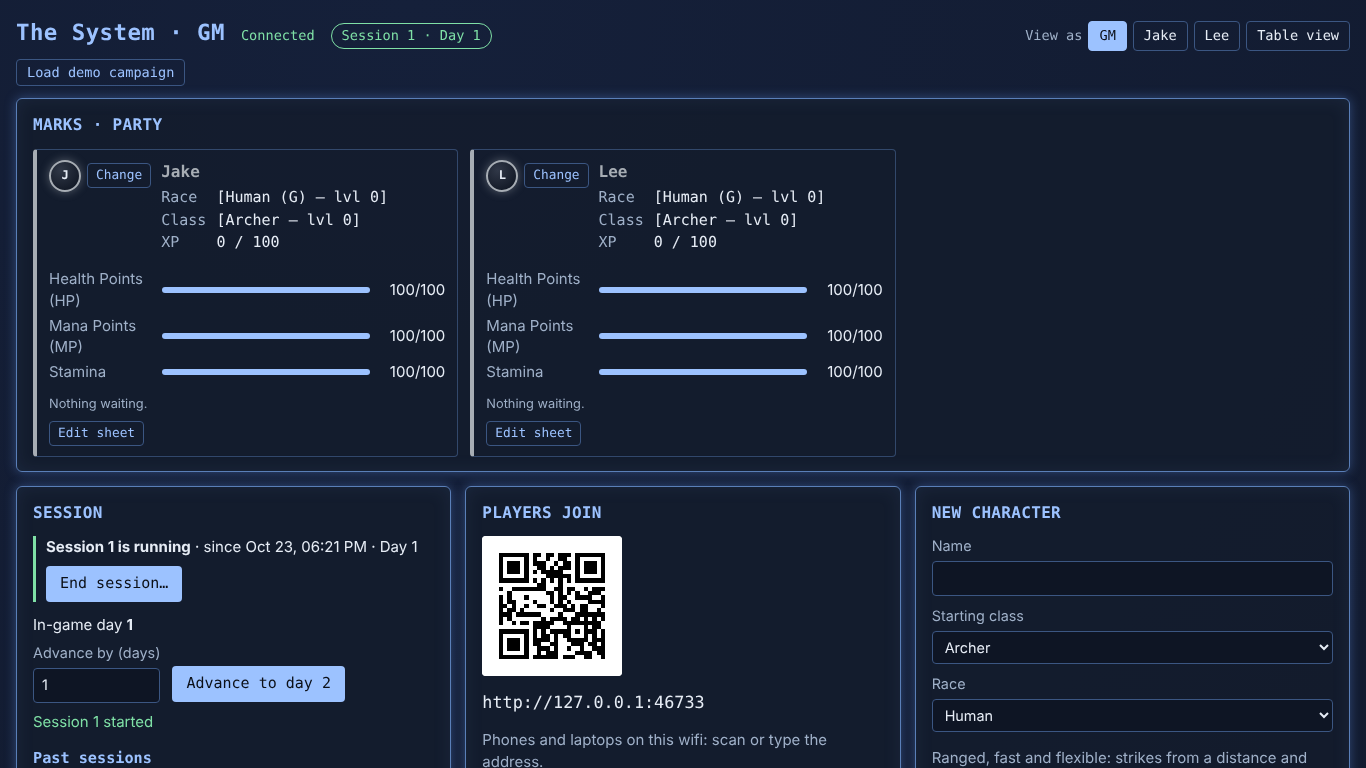
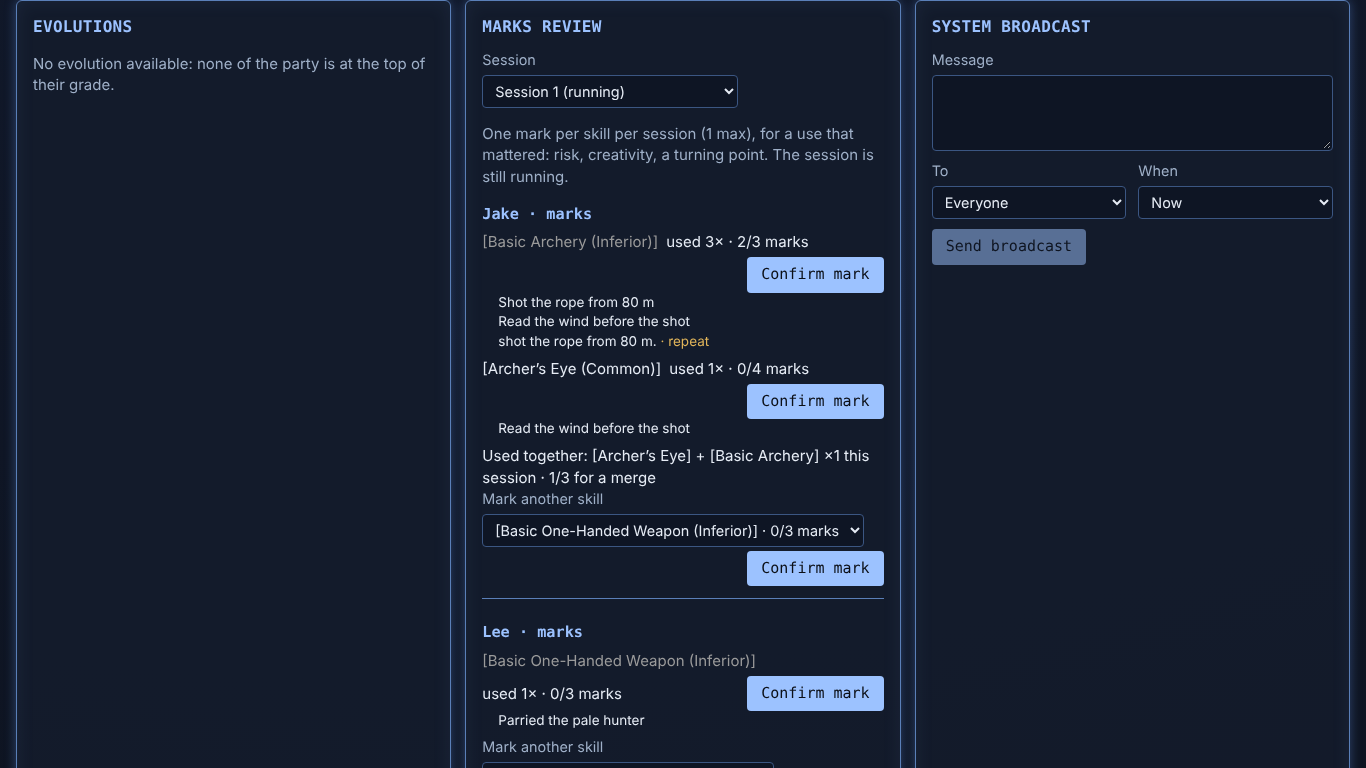
fix(M5.3): review round 1: skill pairs counted, montage focus flagged, lost skills named, screenshot shows the review
Claude-Session: https://claude.ai/code/session_01DXj8RTQfhi1GQVeTQ6zDGn

diff --git a/packages/engine/src/skills/review.ts b/packages/engine/src/skills/review.ts
@@ -1,5 +1,5 @@
 import type { CampaignState } from '../events/reducer';
-import { repeatedEntryIds, type PracticeSource } from '../practice/model';
+import { repeatedEntryIds, skillPairCounts, type PracticeSource } from '../practice/model';
 import { atCeiling, canUpgrade, marksToUpgrade } from './model';
 
 /**
@@ -38,6 +38,19 @@ export interface MarkCandidate {
   readonly status: MarkStatus;
   /** At the grade's rarity ceiling: a mark banks until the next evolution. */
   readonly banks: boolean;
+  /** A montage focus used it this session: the focus counts as its mark (DESIGN §6). */
+  readonly montage: boolean;
+}
+
+/** Two skills logged working together this session (DESIGN §7 "skill pairs counted"). */
+export interface ReviewPair {
+  readonly skills: readonly [string, string];
+  /** Joint uses this session (repeats not counted). */
+  readonly session: number;
+  /** Joint uses in the whole log, which the merge alert counts. */
+  readonly total: number;
+  /** Joint uses a merge needs (rules). */
+  readonly needed: number;
 }
 
 /** A skill with the marks for its next rarity that the grade allows now. */
@@ -60,6 +73,9 @@ export interface CharacterMarksReview {
   readonly upgrades: readonly UpgradePrompt[];
   /** Skills holding enough marks but at the grade ceiling (they bank). */
   readonly banked: readonly MarkCandidate[];
+  readonly pairs: readonly ReviewPair[];
+  /** Skill names logged this session that the character no longer has (merged, transformed). */
+  readonly lost: readonly string[];
 }
 
 /**
@@ -98,6 +114,7 @@ export function marksReview(state: CampaignState, sessionId: string): CharacterM
         needed,
         status,
         banks: needed !== null && atCeiling(rules, character, skill),
+        montage: entries.some((e) => e.source === 'montage'),
       };
       return { candidate, order };
     });
@@ -119,7 +136,20 @@ export function marksReview(state: CampaignState, sessionId: string): CharacterM
     const banked = candidates
       .map((c) => c.candidate)
       .filter((c) => c.banks && c.needed !== null && c.marks >= c.needed);
-    return [{ characterId: id, name: character.name, used, unused, upgrades, banked }];
+    const owned = new Set(character.skills.map((k) => k.name));
+    const lost = [...new Set(mine.flatMap((e) => e.skills))].filter((n) => !owned.has(n));
+    const totals = skillPairCounts(state.practice, id);
+    const pairs = skillPairCounts(session, id)
+      .filter((p) => owned.has(p.skills[0]) && owned.has(p.skills[1]))
+      .map((p) => ({
+        skills: p.skills,
+        session: p.count,
+        total:
+          totals.find((t) => t.skills[0] === p.skills[0] && t.skills[1] === p.skills[1])?.count ??
+          p.count,
+        needed: rules.skills.merge.requiredJointUses,
+      }));
+    return [{ characterId: id, name: character.name, used, unused, upgrades, banked, pairs, lost }];
   });
 }
 

diff --git a/packages/engine/test/marksReview.test.ts b/packages/engine/test/marksReview.test.ts
@@ -149,4 +149,61 @@ describe('marksReview (M5.3)', () => {
   it('no session played means no session to review', () => {
     expect(reviewSessionId(run(start).state!)).toBeNull();
   });
+  it('counts skill pairs this session and in the whole log, and flags a montage focus', () => {
+    const c = run([
+      ...start,
+      { type: 'session.start', sessionId: 'p0' },
+      log('Aimed and shot', ['Archer’s Eye', 'Basic Archery']),
+      { type: 'session.end' },
+      { type: 'session.start', sessionId: 'p1' },
+      log('Aimed and shot again', ['Basic Archery', 'Archer’s Eye']),
+      { type: 'clock.create', clockId: 'k', name: 'Climb', segments: 2 },
+      { type: 'clock.tick', clockId: 'k', result: 'success' },
+      { type: 'montage.offer', montageId: 'm', clockId: 'k', characterIds: [ID] },
+      {
+        type: 'montage.focus',
+        montageId: 'm',
+        characterId: ID,
+        action: 'Hid',
+        skills: ['Basic Stealth'],
+      },
+    ]);
+    const jake = jakeOf(c, 'p1');
+    expect(jake.pairs).toEqual([
+      { skills: ['Archer’s Eye', 'Basic Archery'], session: 1, total: 2, needed: 3 },
+    ]);
+    expect(jake.used.find((u) => u.skill === 'Basic Stealth')).toMatchObject({
+      montage: true,
+      status: 'eligible',
+    });
+    expect(jake.used.find((u) => u.skill === 'Basic Archery')!.montage).toBe(false);
+    expect(jake.lost).toEqual([]);
+  });
+
+  it('lists logged skills merged away this session as lost', () => {
+    const pair = ['Cut', 'Step'];
+    const c = run([
+      { type: 'campaign.create', name: 'Whale', rules: rawRules() },
+      {
+        type: 'character.create',
+        id: ID,
+        name: 'Jake',
+        className: 'Archer',
+        classSkills: [
+          { name: 'Cut', rarity: 'uncommon' },
+          { name: 'Step', rarity: 'uncommon' },
+          { name: 'Look', rarity: 'common' },
+        ],
+      },
+      { type: 'session.start', sessionId: 'p1' },
+      log('One', pair),
+      log('Two', pair),
+      log('Three', pair),
+      { type: 'skill.merge', characterId: ID, skills: ['Cut', 'Step'], name: 'Cutstep' },
+    ]);
+    const jake = jakeOf(c, 'p1');
+    expect(jake.lost).toEqual(['Cut', 'Step']);
+    expect(jake.used).toEqual([]);
+    expect(jake.pairs).toEqual([]);
+  });
 });

diff --git a/apps/web/src/gm/MarksReview.tsx b/apps/web/src/gm/MarksReview.tsx
@@ -129,6 +129,11 @@ export function MarksReview({ client, state }: { client: LiveClient; state: Camp
                           </span>
                           {markButton(r.characterId, r.name, c)}
                         </div>
+                        {c.montage && c.status === 'eligible' && (
+                          <p className="muted marks-montage">
+                            A montage focus used it: the focus counts as this session&apos;s mark.
+                          </p>
+                        )}
                         <ul className="marks-entries">
                           {c.entries.map((e) => (
                             <li key={e.id}>
@@ -138,6 +143,23 @@ export function MarksReview({ client, state }: { client: LiveClient; state: Camp
                             </li>
                           ))}
                         </ul>
+                      </li>
+                    ))}
+                  </ul>
+                )}
+                {r.lost.length > 0 && (
+                  <p className="muted" data-testid="marks-lost">
+                    Logged this session but no longer held (merged or transformed):{' '}
+                    {r.lost.map((n) => `[${n}]`).join(', ')}
+                  </p>
+                )}
+                {r.pairs.length > 0 && (
+                  <ul className="marks-pairs" aria-label={`${r.name}: skills used together`}>
+                    {r.pairs.map((p) => (
+                      <li key={p.skills.join('+')}>
+                        Used together: [{p.skills[0]}] + [{p.skills[1]}] ×{p.session} this session ·{' '}
+                        {Math.min(p.total, p.needed)}/{p.needed} for a merge
+                        {p.total >= p.needed ? ' (merge alert)' : ''}
                       </li>
                     ))}
                   </ul>

diff --git a/e2e/M5.3.spec.ts b/e2e/M5.3.spec.ts
@@ -109,7 +109,11 @@ test('the GM reviews a session, confirms marks and upgrades; the player gets the
     '[Basic One-Handed Weapon (Inferior)]',
   );
   await expect(jake.getByTestId('upgrade-prompt')).toHaveCount(0);
-  await gm.screenshot({ path: path.join(shots, 'gm-marks-review-1366x768.png'), fullPage: false });
+  await expect(review.getByRole('list', { name: 'Jake: skills used together' })).toHaveText(
+    'Used together: [Archer’s Eye] + [Basic Archery] ×1 this session · 1/3 for a merge',
+  );
+  await review.evaluate((el) => el.scrollIntoView({ block: 'start' }));
+  await gm.screenshot({ path: path.join(shots, 'gm-marks-review-1366x768.png') });
 
   // The player is watching their sheet when the upgrade lands.
   const player = await browser.newPage({ viewport: { width: 390, height: 844 } });

diff --git a/apps/web/src/styles.css b/apps/web/src/styles.css
@@ -2215,6 +2215,7 @@ ol.change-log li.undone .change-text {
   padding-top: 0.5rem;
 }
 .marks-list,
+.marks-pairs,
 .marks-entries {
   list-style: none;
   margin: 0;
@@ -2248,4 +2249,8 @@ ol.change-log li.undone .change-text {
 }
 .upgrade-prompt {
   margin: 0.4rem 0;
+}
+.marks-montage {
+  margin: 0.2rem 0 0;
+  font-size: 0.9em;
 }

diff --git a/docs/DECISIONS.md b/docs/DECISIONS.md
@@ -188,4 +188,4 @@ Newest at the bottom. Format: ID · date · decision · why. D-numbers are writt
 - D166 · 2026-10-23 · QF.14 review: the lint/format skip is narrowed to `.claude/worktrees/` (what .gitignore ignores), so a tracked `.claude/` file would still be linted; the banned-pattern scan keeps skipping `.claude` by directory name. · Sonnet review Low 4.
 - D167 · 2026-10-23 · M5.1: the offer builder keeps one draft per character and selection (a keyed form, reset after a send); without a profession every option is a class option; the practice log sits beside the menu with whole-log skill and stat counts and the latest 12 entries; a dashboard selection chip opens the builder at that character and level; Withdraw asks to confirm. · Round-1 review (M1–M4); DESIGN §6 says the menu is built from the practice log.
 - D168 · 2026-10-23 · M5.2 evolution builder: an evolution transform may carry an optional `merge` (a second skill, consumed on choosing; `evolution.released` stays v1, the field is additive and older logs never carry it). It follows the merge rules (both at least `merge.minRarity`, logged together `merge.requiredJointUses` times, counts toward `maxPerCharacterPerGrade` at the grade being left, a new name that is neither original's, rarity exactly `rarityStepsAboveHigher` above the higher and within the new ceiling) and makes a fresh skill (`newSkill`: no nickname, Unique tag or marks), like `skill.merge`; the builder prompts pairs judged at the new ceiling and adds such a row with that rarity. The builder also flags released options that later events made unchoosable (round-1 review). New GM command `profession.withdrawOffer` → event `profession.offerWithdrawn` removes an untaken offer from the Professions tab and from a release still waiting; refused once a profession locks the list. The builder lists untaken offers with Withdraw (confirm). New golden log `evolution-builder`. · DESIGN §6 says the builder offers the merge "as part of the evolution" and that originals are consumed, which a plain one-skill transform cannot do; ROADMAP M5.2 asks for withdrawing an untaken offer.
-- D169 · 2026-10-23 · M5.3 marks review: a GM window built on a pure engine helper `marksReview(state, sessionId)` (per character: skills used in that play session, most used first, with their entries and repeats flagged; owned skills not logged, which a mark can still go to; upgrade prompts exactly where `canUpgrade` allows; skills with enough marks banked at the ceiling). It opens on the running session, else the latest ended one (`reviewSessionId`), and any past session can be picked, since marks are often confirmed after the session ends (`skill.awardMark` with `session`). Upgrading stays a GM button (no automatic upgrade), and the owner now gets a book-style DING (`skillUpgrade` notification, only to that character; counted under the "Level-ups and upgrades" history filter). No new events or state. · DESIGN §6–7: the GM confirms marks in the end-of-session review; upgrades by marks are earned progress the player should see like a level-up.
+- D169 · 2026-10-23 · M5.3 marks review: a GM window built on a pure engine helper `marksReview(state, sessionId)` (per character: skills used in that play session, most used first, with their entries and repeats flagged; owned skills not logged, which a mark can still go to; upgrade prompts exactly where `canUpgrade` allows; skills with enough marks banked at the ceiling). It opens on the running session, else the latest ended one (`reviewSessionId`), and any past session can be picked, since marks are often confirmed after the session ends (`skill.awardMark` with `session`). Upgrading stays a GM button (no automatic upgrade), and the owner now gets a book-style DING (`skillUpgrade` notification, only to that character; counted under the "Level-ups and upgrades" history filter). The review also lists the skill pairs used together this session with their whole-log count toward a merge (merge alert at the rules' joint-use count; building merges is M5.4), names logged skills the character no longer has, and marks a skill a montage focus used: the focus counts as that session's mark, which the GM confirms here like any other (no automatic mark, so it can never be given twice). Only `skill.upgraded` sends the upgrade DING; an evolution transform shows in the evolution screen instead. No new events or state. · DESIGN §6–7: the GM confirms marks in the end-of-session review; upgrades by marks are earned progress the player should see like a level-up.
